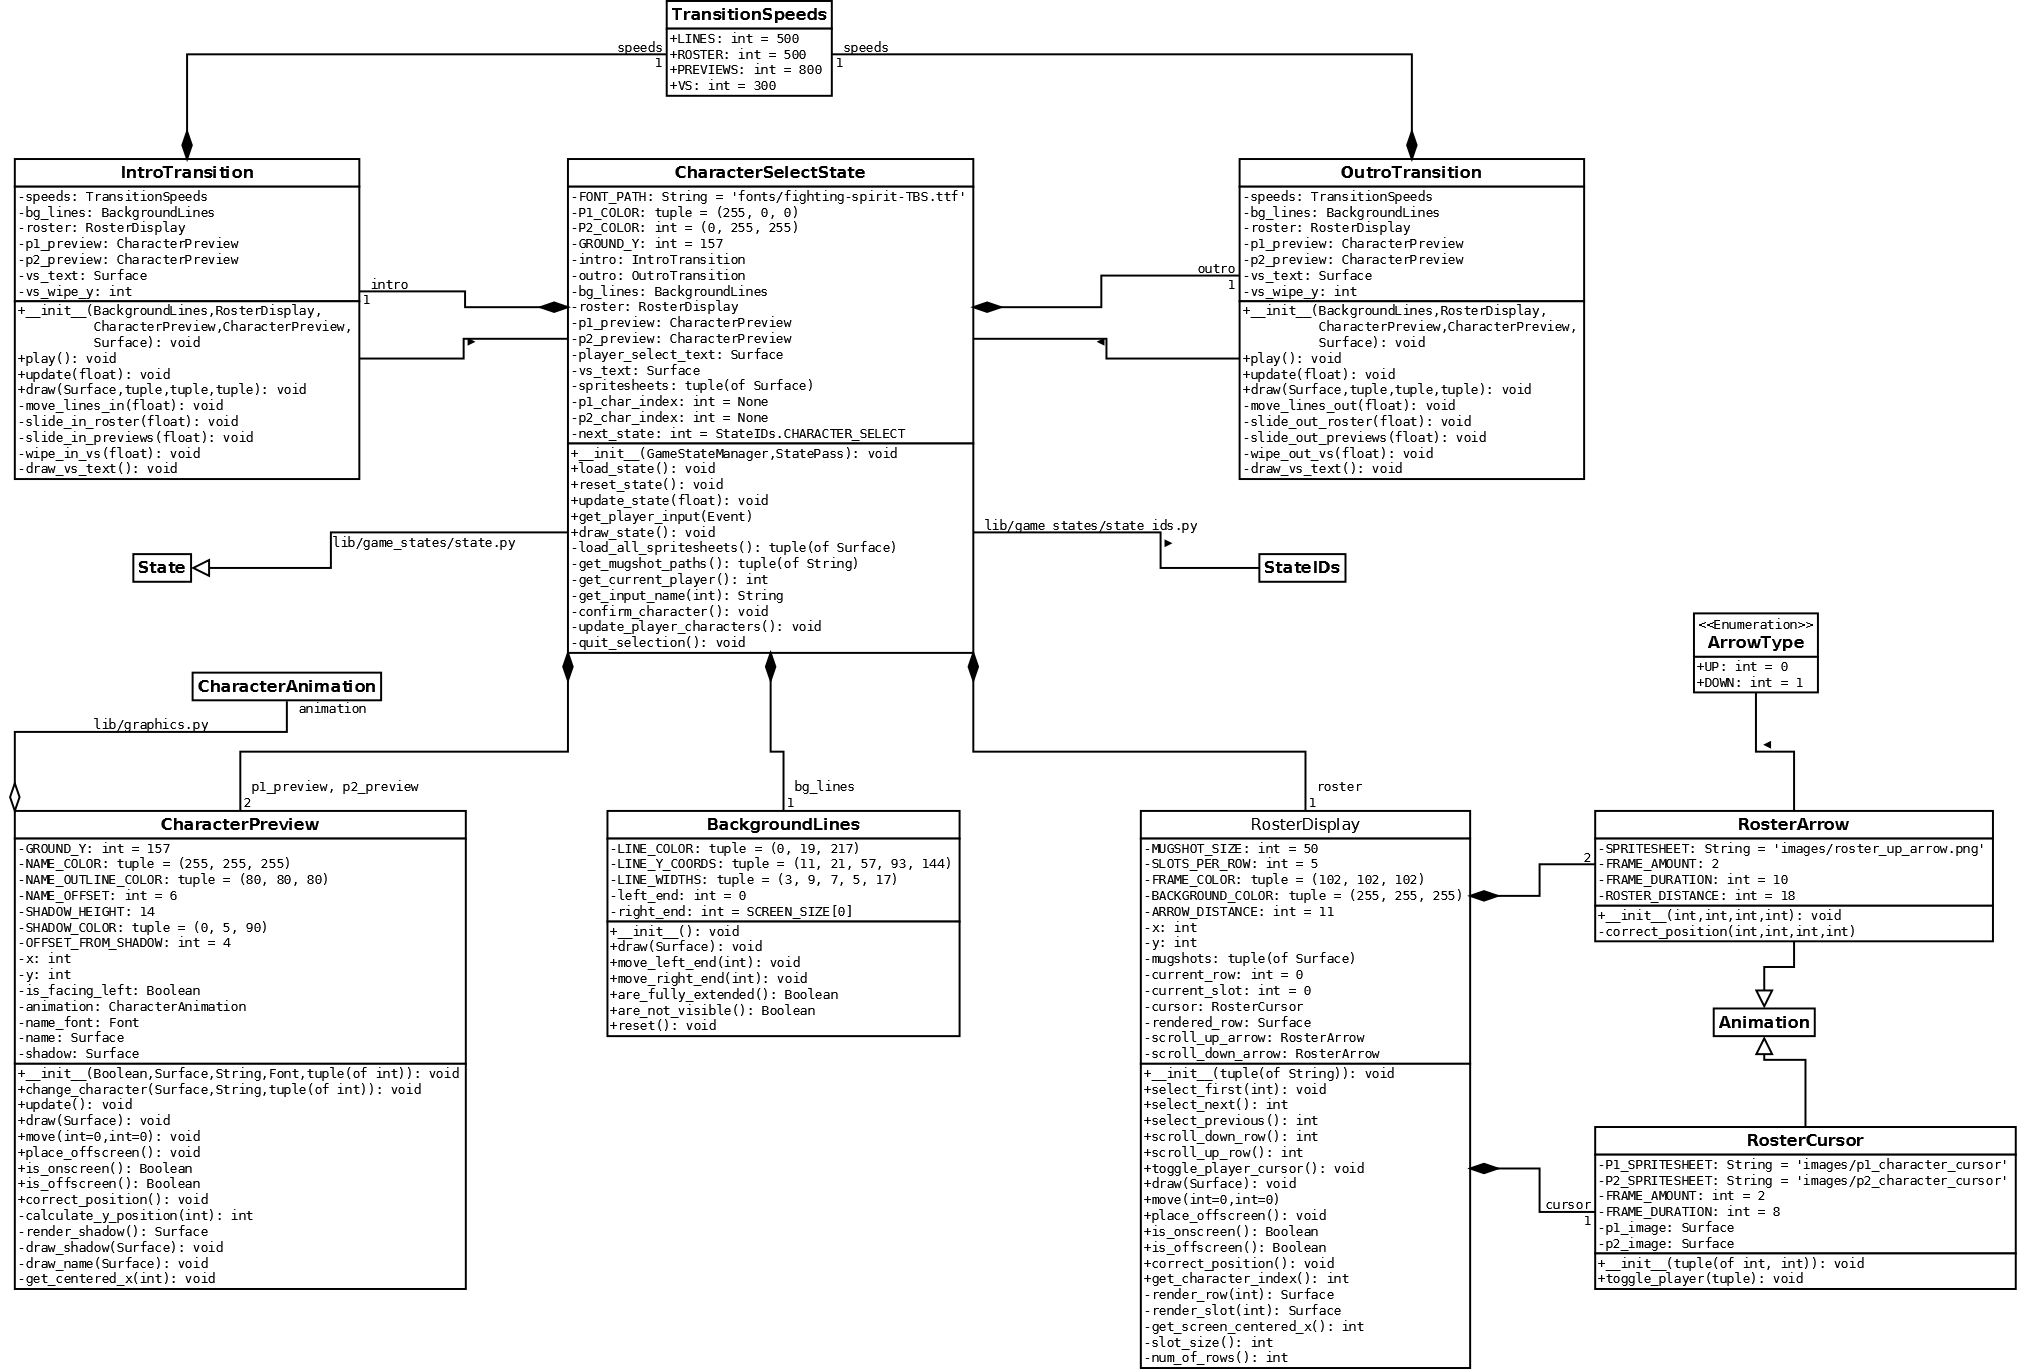
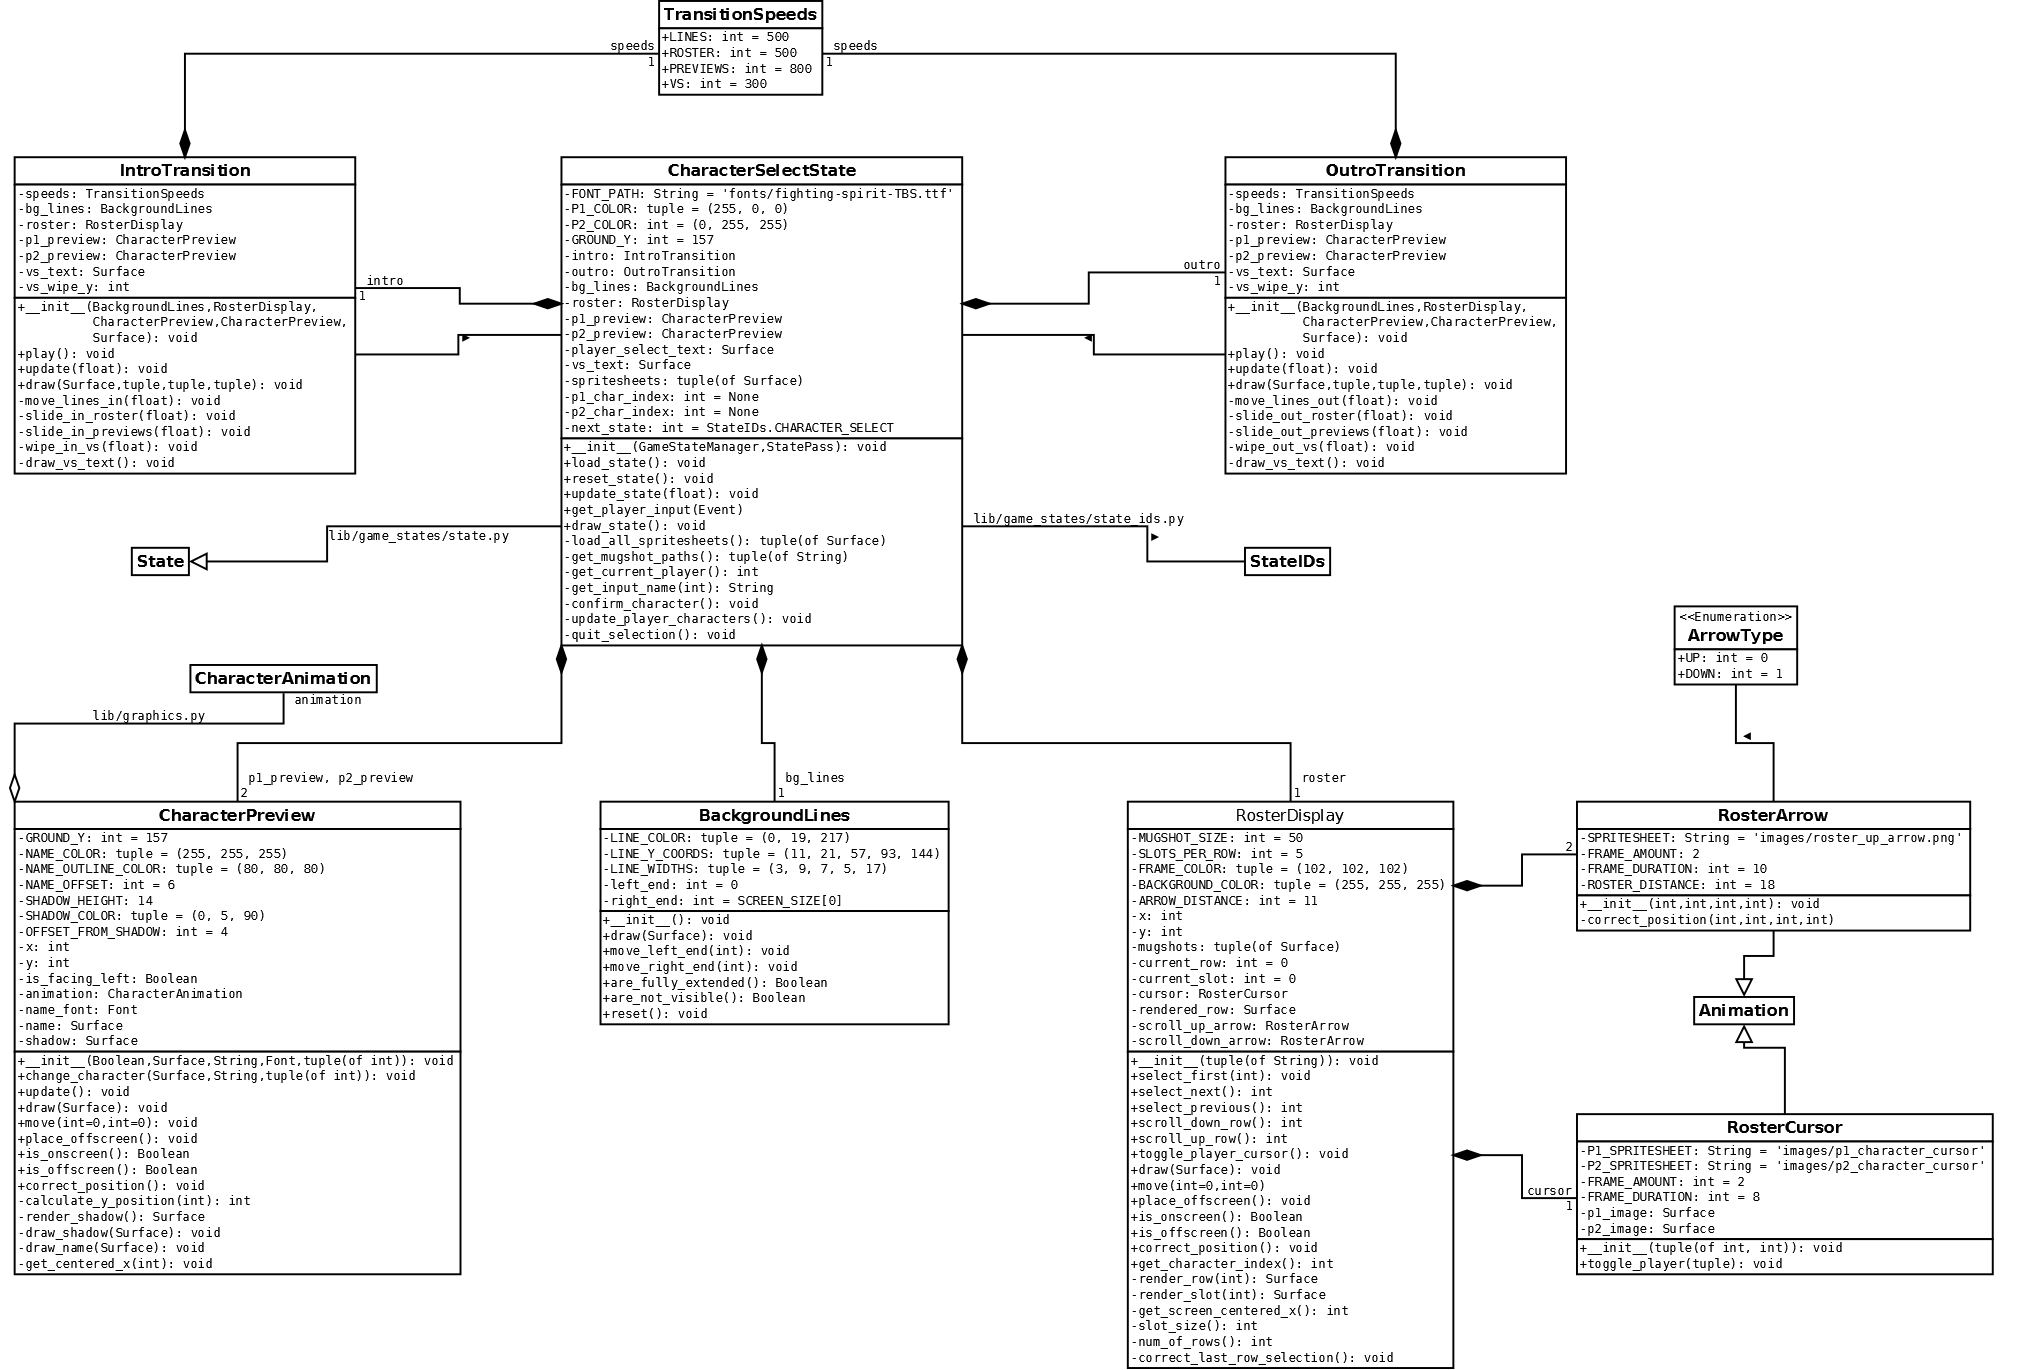
RosterDisplay: Add correct_last_row_selection()

diff --git a/lib/game_states/character_select_state.py b/lib/game_states/character_select_state.py
@@ -223,6 +223,17 @@ class RosterDisplay():
                 self.current_slot -= 1
                 self.cursor.move(0 - self.slot_size(), 0)
 
+    def correct_last_row_selection(self):
+        """If the roster scrolls to the last row, and the last row has
+        less slots than the previous one, make sure  the selection only
+        goes as far as the very last slot.
+        """
+        if len(self.mugshots) % self.SLOTS_PER_ROW != 0:
+            last_slot = (len(self.mugshots) - 1) % self.SLOTS_PER_ROW
+            self.cursor.move(0 - (self.slot_size() *
+                                  (self.current_slot - last_slot)), 0)
+            self.current_slot = last_slot
+
     def scroll_down_row(self):
         """Scroll down to the next row of characters.
 
@@ -233,13 +244,7 @@ class RosterDisplay():
             self.current_row += 1
 
             if self.get_character_index() > len(self.mugshots) - 1:
-                # If the roster scrolls to the last row, and the last
-                # row has less slots than the previous one, make sure
-                # the selection only goes as far as the very last slot.
-                last_slot = (len(self.mugshots) - 1) % self.SLOTS_PER_ROW
-                self.cursor.move(0 - (self.slot_size() *
-                                 (self.current_slot - last_slot)), 0)
-                self.current_slot = last_slot
+                self.correct_last_row_selection()
         else:
             self.current_row = 0
 
@@ -255,12 +260,7 @@ class RosterDisplay():
             self.current_row -= 1
         else:
             self.current_row = self.num_of_rows() - 1
-
-            if self.get_character_index() > len(self.mugshots) - 1:
-                last_slot = (len(self.mugshots) - 1) % self.SLOTS_PER_ROW
-                self.cursor.move(0 - (self.slot_size() *
-                                 (self.current_slot - last_slot)), 0)
-                self.current_slot = last_slot
+            self.correct_last_row_selection()
         self.rendered_row = self.render_row(self.current_row)
 
 
